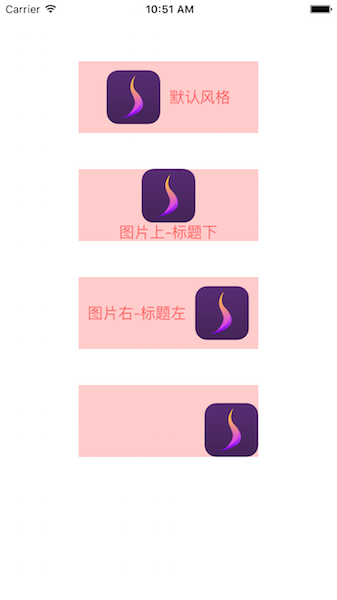
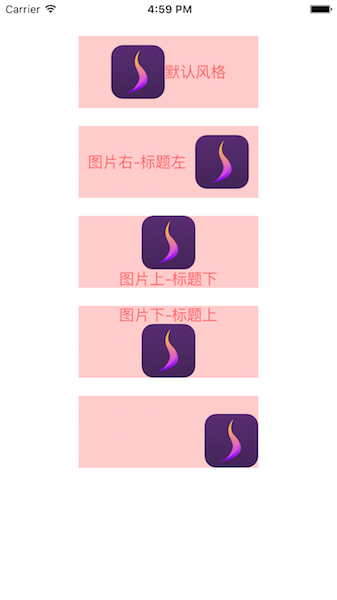
添加 图片在下，标题在上 样式

Changed region(s): [[0.2374, 0.06, 0.7715, 0.78], [0.4154, 0.0, 0.5935, 0.03]]

diff --git a/UIButton+EdgeInsets/UIButton+SSEdgeInsets.m b/UIButton+EdgeInsets/UIButton+SSEdgeInsets.m
@@ -17,107 +17,111 @@ sizeWithAttributes:@{NSFontAttributeName:font}] : CGSizeZero;
 
 @implementation UIButton (SSEdgeInsets)
 
-- (void)setImageUpTitleDownWithSpacing:(CGFloat)spacing {
-    // lower the text and push it left so it appears centered
-    //  below the image
+- (void)setImagePositionWithType:(SSImagePositionType)type spacing:(CGFloat)spacing {
     CGSize imageSize = [self imageForState:UIControlStateNormal].size;
-    self.titleEdgeInsets = UIEdgeInsetsMake(0.0, - imageSize.width, - (imageSize.height + spacing), 0.0);
-    
-    // raise the image and push it right so it appears centered
-    //  above the text
     CGSize titleSize = SS_SINGLELINE_TEXTSIZE([self titleForState:UIControlStateNormal], self.titleLabel.font);
-    self.imageEdgeInsets = UIEdgeInsetsMake(- (titleSize.height + spacing), 0.0, 0.0, - titleSize.width);
+
+    switch (type) {
+        case SSImagePositionTypeLeft: {
+            CGFloat delta = spacing / 2.f;
+            self.imageEdgeInsets = UIEdgeInsetsMake(0, - delta, 0, delta);
+            self.titleEdgeInsets = UIEdgeInsetsMake(0, delta, 0, - delta);
+            break;
+        }
+        case SSImagePositionTypeRight: {
+            self.titleEdgeInsets = UIEdgeInsetsMake(0, - (imageSize.width + spacing), 0, imageSize.width);
+            self.imageEdgeInsets = UIEdgeInsetsMake(0, titleSize.width, 0, - (titleSize.width + spacing));
+            break;
+        }
+        case SSImagePositionTypeTop: {
+            // lower the text and push it left so it appears centered
+            //  below the image
+            self.titleEdgeInsets = UIEdgeInsetsMake(0, - imageSize.width, - (imageSize.height + spacing), 0);
+            
+            // raise the image and push it right so it appears centered
+            //  above the text
+            self.imageEdgeInsets = UIEdgeInsetsMake(- (titleSize.height + spacing), 0, 0, - titleSize.width);
+            break;
+        }
+        case SSImagePositionTypeBottom: {
+            self.titleEdgeInsets = UIEdgeInsetsMake(- (imageSize.height + spacing), - imageSize.width, 0, 0);
+            self.imageEdgeInsets = UIEdgeInsetsMake(0, 0, - (titleSize.height + spacing), - titleSize.width);
+            break;
+        }
+    }
+}
+
+- (void)setImageUpTitleDownWithSpacing:(CGFloat)spacing {
+    [self setImagePositionWithType:SSImagePositionTypeTop spacing:spacing];
 }
 
 - (void)setImageRightTitleLeftWithSpacing:(CGFloat)spacing {
-    CGSize imageSize = [self imageForState:UIControlStateNormal].size;
-    self.titleEdgeInsets = UIEdgeInsetsMake(0, - (imageSize.width + spacing), 0, imageSize.width);
-    
-    CGSize titleSize = SS_SINGLELINE_TEXTSIZE([self titleForState:UIControlStateNormal], self.titleLabel.font);
-    self.imageEdgeInsets = UIEdgeInsetsMake(0, titleSize.width, 0, - (titleSize.width + spacing));
-}
-
-- (void)setDefaultImageTitleStyleWithSpacing:(CGFloat)spacing {
-    CGFloat delta = spacing/2.f;
-    self.imageEdgeInsets = UIEdgeInsetsMake(0, -delta, 0, delta);
-    self.titleEdgeInsets = UIEdgeInsetsMake(0, delta, 0, -delta);
+    [self setImagePositionWithType:SSImagePositionTypeRight spacing:spacing];
 }
 
 - (void)setEdgeInsetsWithType:(SSEdgeInsetsType)edgeInsetsType marginType:(SSMarginType)marginType margin:(CGFloat)margin {
     CGSize itemSize = CGSizeZero;
     if (edgeInsetsType == SSEdgeInsetsTypeTitle) {
         itemSize = SS_SINGLELINE_TEXTSIZE([self titleForState:UIControlStateNormal], self.titleLabel.font);
-    }
-    else {
+    } else {
         itemSize = [self imageForState:UIControlStateNormal].size;
     }
     
-    CGFloat horizontalDelta = (CGRectGetWidth(self.frame) - itemSize.width)/2.f - margin;
-    CGFloat vertivalDelta = (CGRectGetHeight(self.frame) - itemSize.height)/2.f - margin;
+    CGFloat horizontalDelta = (CGRectGetWidth(self.frame) - itemSize.width) / 2.f - margin;
+    CGFloat vertivalDelta = (CGRectGetHeight(self.frame) - itemSize.height) / 2.f - margin;
     
     NSInteger horizontalSignFlag = 1;
     NSInteger verticalSignFlag = 1;
     
     switch (marginType) {
-        case SSMarginTypeTop:
-        {
+        case SSMarginTypeTop: {
             horizontalSignFlag = 0;
-            verticalSignFlag = -1;
-        }
+            verticalSignFlag = - 1;
             break;
-        case SSMarginTypeBottom:
-        {
+        }
+        case SSMarginTypeBottom: {
             horizontalSignFlag = 0;
             verticalSignFlag = 1;
-        }
             break;
-        case SSMarginTypeLeft:
-        {
-            horizontalSignFlag = -1;
+        }
+        case SSMarginTypeLeft: {
+            horizontalSignFlag = - 1;
             verticalSignFlag = 0;
-        }
             break;
-        case SSMarginTypeRight:
-        {
+        }
+        case SSMarginTypeRight: {
             horizontalSignFlag = 1;
             verticalSignFlag = 0;
-        }
             break;
-        case SSMarginTypeTopLeft:
-        {
-            horizontalSignFlag = -1;
-            verticalSignFlag = -1;
         }
+        case SSMarginTypeTopLeft: {
+            horizontalSignFlag = - 1;
+            verticalSignFlag = - 1;
             break;
-        case SSMarginTypeTopRight:
-        {
+        }
+        case SSMarginTypeTopRight: {
             horizontalSignFlag = 1;
-            verticalSignFlag = -1;
-        }
+            verticalSignFlag = - 1;
             break;
-        case SSMarginTypeBottomLeft:
-        {
-            horizontalSignFlag = -1;
+        }
+        case SSMarginTypeBottomLeft: {
+            horizontalSignFlag = - 1;
             verticalSignFlag = 1;
-        }
             break;
-        
-        case SSMarginTypeBottomRight:
-        {
+        }
+        case SSMarginTypeBottomRight: {
             horizontalSignFlag = 1;
             verticalSignFlag = 1;
+            break;
         }
-            break;
-            
-        default:
-            break;
     }
+    
     UIEdgeInsets edgeInsets = UIEdgeInsetsMake(vertivalDelta * verticalSignFlag, horizontalDelta * horizontalSignFlag, -vertivalDelta * verticalSignFlag, -horizontalDelta * horizontalSignFlag);
     if (edgeInsetsType == SSEdgeInsetsTypeTitle) {
         self.titleEdgeInsets = edgeInsets;
-    }
-    else {
+    } else {
         self.imageEdgeInsets = edgeInsets;
     }
 }
+
 @end

diff --git a/UIButton+EdgeInsets/UIButton+SSEdgeInsets.h b/UIButton+EdgeInsets/UIButton+SSEdgeInsets.h
@@ -8,6 +8,13 @@
 
 #import <UIKit/UIKit.h>
 
+typedef NS_ENUM(NSInteger, SSImagePositionType) {
+    SSImagePositionTypeLeft,   //图片在左，标题在右，默认风格
+    SSImagePositionTypeRight,  //图片在右，标题在左
+    SSImagePositionTypeTop,    //图片在上，标题在下
+    SSImagePositionTypeBottom  //图片在下，标题在上
+};
+
 typedef NS_ENUM(NSInteger, SSEdgeInsetsType) {
     SSEdgeInsetsTypeTitle,//标题
     SSEdgeInsetsTypeImage//图片
@@ -24,7 +31,6 @@ typedef NS_ENUM(NSInteger, SSMarginType) {
     SSMarginTypeBottomRight
 };
 
-@interface UIButton (SSEdgeInsets)
 /**
  默认情况下，imageEdgeInsets和titleEdgeInsets都是0。先不考虑height,
  
@@ -35,28 +41,17 @@ typedef NS_ENUM(NSInteger, SSMarginType) {
  if (button.width >＝ imageView.width + label.width){图像和文字都居中显示，imageView在左，label在右，中间没有空隙}
  */
 
+@interface UIButton (SSEdgeInsets)
 
 /**
- *  图片在上，标题在下，居中显示
+ *  利用UIButton的titleEdgeInsets和imageEdgeInsets来实现图片和标题的自由排布
+ *  注意：1.该方法需在设置图片和标题之后才调用;
+         2.图片和标题改变后需再次调用以重新计算titleEdgeInsets和imageEdgeInsets
  *
- *  @param spacing image 和 title 之间的间隙
+ *  @param type    图片位置类型
+ *  @param spacing 图片和标题之间的间隙
  */
-- (void)setImageUpTitleDownWithSpacing:(CGFloat)spacing;
-
-/**
- *  图片在右，标题在左
- *
- *  @param spacing image 和 title 之间的间隙
- */
-- (void)setImageRightTitleLeftWithSpacing:(CGFloat)spacing;
-
-/**
- *  按钮默认风格：图片在标题左边
- *
- *  @param spacing image 和 title 之间的间隙
- */
-- (void)setDefaultImageTitleStyleWithSpacing:(CGFloat)spacing;
-
+- (void)setImagePositionWithType:(SSImagePositionType)type spacing:(CGFloat)spacing;
 
 /**
  *  按钮只设置了title or image，该方法可以改变它们的位置
@@ -66,5 +61,21 @@ typedef NS_ENUM(NSInteger, SSMarginType) {
  *  @param margin         <#margin description#>
  */
 - (void)setEdgeInsetsWithType:(SSEdgeInsetsType)edgeInsetsType marginType:(SSMarginType)marginType margin:(CGFloat)margin;
+
+
+
+/**
+ *  图片在上，标题在下
+ *
+ *  @param spacing image 和 title 之间的间隙
+ */
+- (void)setImageUpTitleDownWithSpacing:(CGFloat)spacing __deprecated_msg("Method deprecated. Use `setImagePositionWithType:spacing:`");
+
+/**
+ *  图片在右，标题在左
+ *
+ *  @param spacing image 和 title 之间的间隙
+ */
+- (void)setImageRightTitleLeftWithSpacing:(CGFloat)spacing __deprecated_msg("Method deprecated. Use `setImagePositionWithType:spacing:`");
 
 @end

diff --git a/UIButton+EdgeInsets/ViewController.m b/UIButton+EdgeInsets/ViewController.m
@@ -11,8 +11,9 @@
 
 @interface ViewController ()
 @property (weak, nonatomic) IBOutlet UIButton *defaultStyleBtn;
-@property (weak, nonatomic) IBOutlet UIButton *imageUpTitleDownBtn;
 @property (weak, nonatomic) IBOutlet UIButton *imageRightTitleLeftBtn;
+@property (weak, nonatomic) IBOutlet UIButton *imageUpTitleDownBtn;
+@property (weak, nonatomic) IBOutlet UIButton *imageDownTitleUpBtn;
 @property (weak, nonatomic) IBOutlet UIButton *randomImageBtn;
 
 
@@ -26,18 +27,22 @@
     
     UIColor *backgroundColor                    = [UIColor colorWithRed:1 green:204/255.f blue:204/255.f alpha:1];
     self.defaultStyleBtn.backgroundColor        = backgroundColor;
-    self.imageUpTitleDownBtn.backgroundColor    = backgroundColor;
     self.imageRightTitleLeftBtn.backgroundColor = backgroundColor;
+    self.imageUpTitleDownBtn.backgroundColor    = backgroundColor;
+    self.imageDownTitleUpBtn.backgroundColor    = backgroundColor;
     self.randomImageBtn.backgroundColor         = backgroundColor;
     
     UIColor *highlightedColor = [UIColor blueColor];
     [self.defaultStyleBtn setTitleColor:highlightedColor forState:UIControlStateHighlighted];
-    [self.imageUpTitleDownBtn setTitleColor:highlightedColor forState:UIControlStateHighlighted];
     [self.imageRightTitleLeftBtn setTitleColor:highlightedColor forState:UIControlStateHighlighted];
+    [self.imageUpTitleDownBtn setTitleColor:highlightedColor forState:UIControlStateHighlighted];
+    [self.imageDownTitleUpBtn setTitleColor:highlightedColor forState:UIControlStateHighlighted];
+
     
-    [self.defaultStyleBtn setDefaultImageTitleStyleWithSpacing:10.f];
-    [self.imageUpTitleDownBtn setImageUpTitleDownWithSpacing:0.f];
-    [self.imageRightTitleLeftBtn setImageRightTitleLeftWithSpacing:10.f];
+    [self.defaultStyleBtn setImagePositionWithType:SSImagePositionTypeLeft spacing:0.f];
+    [self.imageRightTitleLeftBtn setImagePositionWithType:SSImagePositionTypeRight spacing:10.f];
+    [self.imageUpTitleDownBtn setImagePositionWithType:SSImagePositionTypeTop spacing:0.f];
+    [self.imageDownTitleUpBtn setImagePositionWithType:SSImagePositionTypeBottom spacing:0.f];
     [self.randomImageBtn setEdgeInsetsWithType:SSEdgeInsetsTypeImage marginType:SSMarginTypeBottomRight margin:0.f];
 }
 
